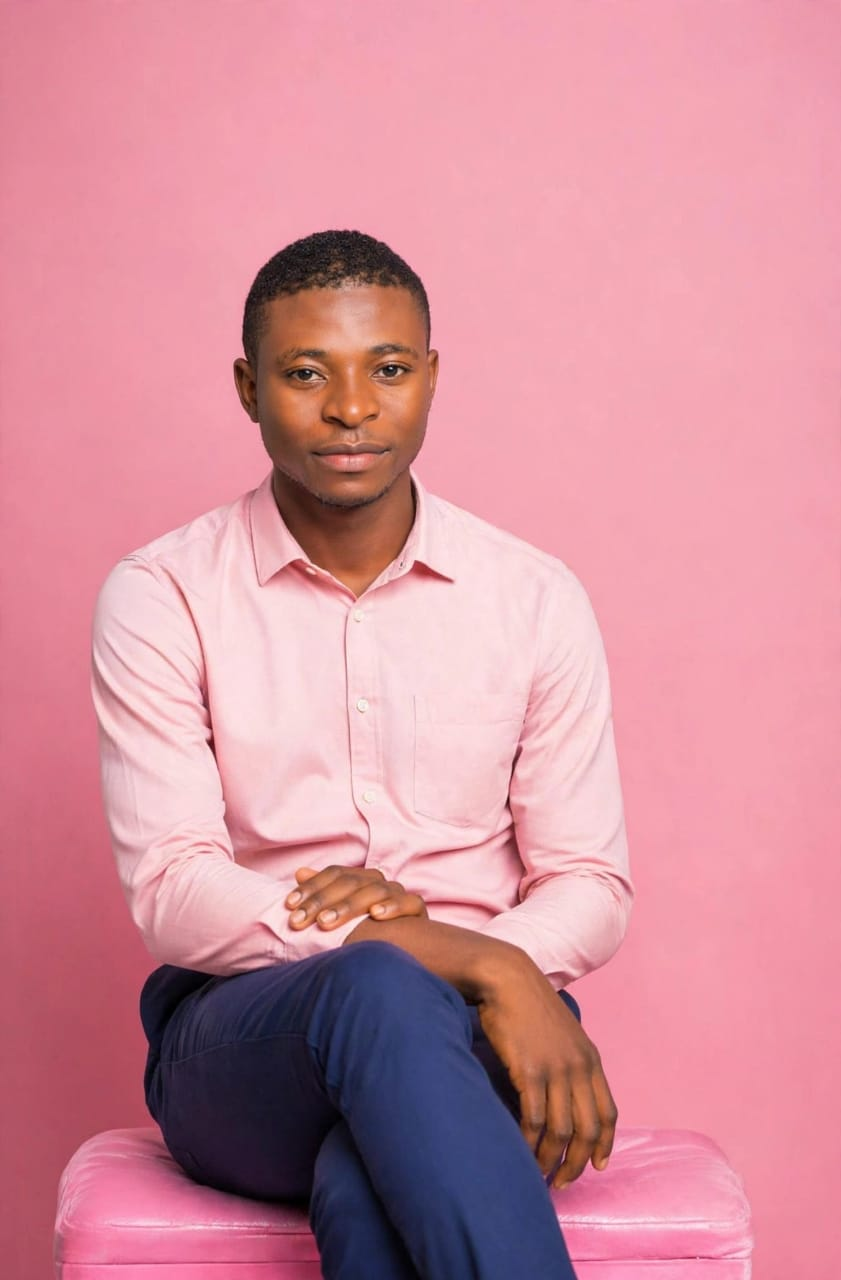
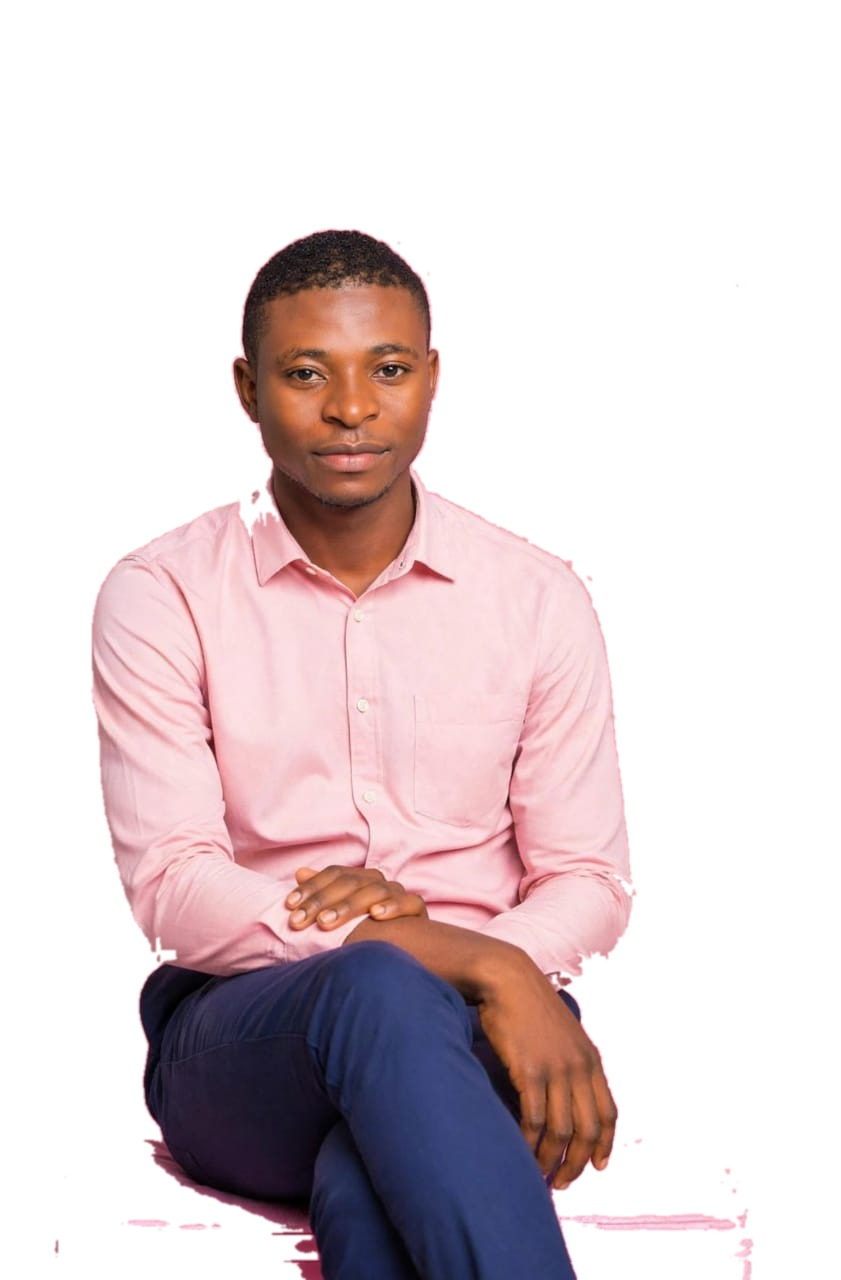
Polish header, project interactions and portrait

diff --git a/programmes.html b/programmes.html
@@ -3,8 +3,8 @@
 <body><a class="skip-link" href="#main">Skip to content</a><header class="site-header"><a class="brand" href="index.html" aria-label="Rwenzori Development Initiative home"><img src="assets/rwedi-logo.png" alt="" aria-hidden="true"><span class="brand-divider" aria-hidden="true"></span><span class="brand-name">Rwenzori Development Initiative</span></a><button class="menu-toggle" type="button" aria-expanded="false" aria-controls="primary-navigation"><span class="menu-icon" aria-hidden="true">☰</span><span>Menu</span></button><nav class="site-nav" id="primary-navigation" aria-label="Main navigation"><a href="index.html">Home</a><a href="about.html">About</a><a href="programmes.html" aria-current="page">Programmes</a><a href="projects.html">Projects</a><a href="contact.html">Contact</a><a class="nav-cta" href="contact.html#get-involved">Get involved</a></nav></header>
 <main id="main"><section class="page-hero"><div class="page-hero-inner"><p class="eyebrow">What we work on</p><h1>Our programme areas</h1><p>RweDI’s programme areas respond to the priorities of farmers, families and young people in Kasese. Activities and enrolment information will be shared when confirmed.</p></div></section>
 <section class="content-section"><div class="content-inner">
-<article class="programme-detail" id="agriculture"><div class="programme-detail-head"><img class="programme-detail-image programme-detail-image-agriculture" src="assets/programme-agriculture.jpeg" alt="Farmers planting in a field" loading="lazy"><h2>Agriculture and Food Security</h2></div><p>We aim to support smallholder farmers and livestock keepers with practical approaches to stronger, more reliable livelihoods. This programme area includes climate-smart farming, value addition and market linkages.</p><a class="enquiry-link" href="contact.html#take-part">Ask about taking part →</a></article>
-<article class="programme-detail" id="youth"><div class="programme-detail-head"><img class="programme-detail-image programme-detail-image-youth" src="assets/programme-youth.jpeg" alt="Young people participating in sewing skills training" loading="lazy"><h2>Youth Empowerment and Entrepreneurship</h2></div><p>We want young people to build confidence and create options for their future. The programme area focuses on practical skills, financial literacy, mentorship, enterprise development and livelihood opportunities.</p><a class="enquiry-link" href="contact.html#take-part">Ask about taking part →</a></article>
-<article class="programme-detail" id="education"><div class="programme-detail-head"><img class="programme-detail-image programme-detail-image-education" src="assets/programme-education.jpeg" alt="Children learning in a classroom" loading="lazy"><h2>Education and Human Development</h2></div><p>We support learning and personal development through learning support, school attendance awareness, vocational skills, mentorship, leadership and community capacity development.</p><a class="enquiry-link" href="contact.html#take-part">Ask about taking part →</a></article>
-<article class="programme-detail" id="environment"><div class="programme-detail-head"><img class="programme-detail-image programme-detail-image-environment" src="assets/programme-environment.jpeg" alt="Community members working together in a planted field" loading="lazy"><h2>Environment and Community Resilience</h2></div><p>We encourage conservation, tree planting and sustainable management of natural resources, while helping communities adapt to climate risks and protect the foundations of local livelihoods.</p><a class="enquiry-link" href="contact.html#partner">Discuss working together →</a></article>
+<article class="programme-detail" id="agriculture"><div class="programme-detail-head"><img class="programme-detail-image programme-detail-image-agriculture" src="assets/programme-agriculture.jpeg" alt="Farmers planting in a field" loading="lazy"><h2>Agriculture and Food Security</h2></div><p>We aim to support smallholder farmers and livestock keepers with practical approaches to stronger, more reliable livelihoods. This programme area includes climate-smart farming, value addition and market linkages.</p><a class="enquiry-link" href="contact.html#take-part">Ask about taking part</a></article>
+<article class="programme-detail" id="youth"><div class="programme-detail-head"><img class="programme-detail-image programme-detail-image-youth" src="assets/programme-youth.jpeg" alt="Young people participating in sewing skills training" loading="lazy"><h2>Youth Empowerment and Entrepreneurship</h2></div><p>We want young people to build confidence and create options for their future. The programme area focuses on practical skills, financial literacy, mentorship, enterprise development and livelihood opportunities.</p><a class="enquiry-link" href="contact.html#take-part">Ask about taking part</a></article>
+<article class="programme-detail" id="education"><div class="programme-detail-head"><img class="programme-detail-image programme-detail-image-education" src="assets/programme-education.jpeg" alt="Children learning in a classroom" loading="lazy"><h2>Education and Human Development</h2></div><p>We support learning and personal development through learning support, school attendance awareness, vocational skills, mentorship, leadership and community capacity development.</p><a class="enquiry-link" href="contact.html#take-part">Ask about taking part</a></article>
+<article class="programme-detail" id="environment"><div class="programme-detail-head"><img class="programme-detail-image programme-detail-image-environment" src="assets/programme-environment.jpeg" alt="Community members working together in a planted field" loading="lazy"><h2>Environment and Community Resilience</h2></div><p>We encourage conservation, tree planting and sustainable management of natural resources, while helping communities adapt to climate risks and protect the foundations of local livelihoods.</p><a class="enquiry-link" href="contact.html#partner">Discuss working together</a></article>
 </div></section></main><footer class="site-footer"><div class="footer-inner"><div class="footer-org"><p class="footer-name">Rwenzori Development Initiative (RweDI)</p><p class="footer-location">Kasese District, Uganda</p><p class="footer-location">Proposed headquarters: Kasese Municipality</p><div class="footer-contact"><a href="mailto:enosmin111@gmail.com" aria-label="Email RweDI at enosmin111@gmail.com"><svg class="contact-icon" viewBox="0 0 24 24" aria-hidden="true"><path d="M3 6h18v12H3zM3 7l9 7 9-7"/></svg>enosmin111@gmail.com</a><a href="tel:+256789033226" aria-label="Call RweDI at 0789 033 226"><svg class="contact-icon" viewBox="0 0 24 24" aria-hidden="true"><path d="M7 3.5h2.2l1.3 4.1-1.7 1.4a14 14 0 0 0 6.2 6.2l1.4-1.7 4.1 1.3V17a2 2 0 0 1-2.2 2A16.5 16.5 0 0 1 5 7a2 2 0 0 1 2-2.2Z"/></svg>0789 033 226</a></div></div><div class="footer-hours" aria-label="Working hours"><h2 class="footer-hours-title">Working hours</h2><p><strong>Monday – Friday:</strong> 8:00am – 5:00pm</p><p><strong>Saturday – Sunday:</strong> Closed</p></div><nav class="footer-nav" aria-label="Footer navigation"><a href="index.html">Home</a><a href="about.html">About</a><a href="programmes.html">Programmes</a><a href="projects.html">Projects</a><a href="contact.html">Contact</a></nav><div class="social-links" aria-label="Contact and social links"><a href="https://www.linkedin.com/search/results/companies/?keywords=Rwenzori%20Development%20Initiative" target="_blank" rel="noopener noreferrer" aria-label="Find RweDI on LinkedIn" title="LinkedIn search for RweDI"><svg viewBox="0 0 24 24" aria-hidden="true"><path d="M5.2 3.5a2.2 2.2 0 1 1 0 4.4 2.2 2.2 0 0 1 0-4.4ZM3.3 9.5h3.8v11H3.3Zm6.1 0H13v1.5h.1a4 4 0 0 1 3.6-1.9c3.9 0 4.6 2.5 4.6 5.7v5.7h-3.8v-5c0-1.2 0-2.8-1.8-2.8s-2.1 1.3-2.1 2.7v5.1H9.4Z"/></svg></a><a href="https://wa.me/256789033226" target="_blank" rel="noopener noreferrer" aria-label="Message RweDI on WhatsApp" title="WhatsApp"><svg viewBox="0 0 24 24" aria-hidden="true"><path d="M12 2.2a9.7 9.7 0 0 0-8.3 14.7L2.4 22l5.2-1.4A9.8 9.8 0 1 0 12 2.2Zm0 17.6a7.8 7.8 0 0 1-4-.1l-.5-.2-3.1.8.8-3-.3-.5A7.8 7.8 0 1 1 12 19.8Zm4.3-5.8c-.2-.1-1.4-.7-1.6-.8-.2-.1-.4-.1-.5.1-.2.2-.6.8-.8 1-.1.2-.3.2-.5.1-.2-.1-1-.4-1.9-1.2-.7-.6-1.2-1.4-1.3-1.6-.1-.2 0-.3.1-.5l.4-.4.2-.4c.1-.2 0-.3 0-.5l-.7-1.7c-.2-.4-.4-.4-.5-.4h-.5c-.2 0-.4.1-.6.3s-.8.8-.8 1.9.8 2.1.9 2.3c.1.2 1.6 2.4 3.8 3.3 1.4.6 1.9.6 2.6.5.4-.1 1.4-.6 1.6-1.1.2-.5.2-1 .1-1.1 0-.1-.2-.2-.4-.3Z"/></svg></a><a href="mailto:enosmin111@gmail.com" aria-label="Email RweDI at enosmin111@gmail.com" title="Email RweDI"><svg viewBox="0 0 24 24" aria-hidden="true"><path d="M3 5h18a2 2 0 0 1 2 2v10a2 2 0 0 1-2 2H3a2 2 0 0 1-2-2V7a2 2 0 0 1 2-2Zm9 7.2L20.5 7h-17Zm-9 5.3h18V9l-9 6.2L3 9Z"/></svg></a></div></div><p class="footer-small">Working alongside local communities for resilient livelihoods and opportunity. Contact RweDI at enosmin111@gmail.com.</p></footer></body></html>

diff --git a/contact.html b/contact.html
@@ -2,8 +2,8 @@
 <html lang="en"><head><meta charset="utf-8"><meta name="viewport" content="width=device-width, initial-scale=1"><title>Contact and Get Involved | Rwenzori Development Initiative</title><meta name="description" content="Take part, volunteer or discuss a partnership with Rwenzori Development Initiative in Kasese District, Uganda."><link rel="icon" href="assets/rwedi-logo.png" type="image/png"><link rel="stylesheet" href="styles.css"><script src="script.js" defer></script></head>
 <body><a class="skip-link" href="#main">Skip to content</a><header class="site-header"><a class="brand" href="index.html" aria-label="Rwenzori Development Initiative home"><img src="assets/rwedi-logo.png" alt="" aria-hidden="true"><span class="brand-divider" aria-hidden="true"></span><span class="brand-name">Rwenzori Development Initiative</span></a><button class="menu-toggle" type="button" aria-expanded="false" aria-controls="primary-navigation"><span class="menu-icon" aria-hidden="true">☰</span><span>Menu</span></button><nav class="site-nav" id="primary-navigation" aria-label="Main navigation"><a href="index.html">Home</a><a href="about.html">About</a><a href="programmes.html">Programmes</a><a href="projects.html">Projects</a><a href="contact.html" aria-current="page">Contact</a><a class="nav-cta" href="contact.html#get-involved">Get involved</a></nav></header>
 <main id="main"><section class="page-hero"><div class="page-hero-inner"><p class="eyebrow">Start a conversation</p><h1 id="get-involved">Get involved with RweDI</h1><p>Whether you live in Kasese, have skills to share or represent an organisation, we welcome conversations about working together.</p></div></section><section class="content-section"><div class="content-inner"><h2 class="section-heading">Choose how you’d like to connect</h2><div class="contact-options">
-<article class="contact-card" id="take-part"><span class="number">01</span><h2>Take part</h2><p>For farmers, families and young people interested in activities and opportunities in their community.</p><a href="#contact-details">Ask about taking part →</a></article>
-<article class="contact-card" id="volunteer"><span class="number">02</span><h2>Volunteer</h2><p>For people who can support training, community outreach or field activities with their time and skills.</p><a href="#contact-details">Ask about volunteering →</a></article>
-<article class="contact-card" id="partner"><span class="number">03</span><h2>Partner with RweDI</h2><p>For schools, agricultural advisers, community organisations and funders interested in discussing a partnership.</p><a href="#contact-details">Discuss a partnership →</a></article>
+<article class="contact-card" id="take-part"><span class="number">01</span><h2>Take part</h2><p>For farmers, families and young people interested in activities and opportunities in their community.</p><a href="#contact-details">Ask about taking part</a></article>
+<article class="contact-card" id="volunteer"><span class="number">02</span><h2>Volunteer</h2><p>For people who can support training, community outreach or field activities with their time and skills.</p><a href="#contact-details">Ask about volunteering</a></article>
+<article class="contact-card" id="partner"><span class="number">03</span><h2>Partner with RweDI</h2><p>For schools, agricultural advisers, community organisations and funders interested in discussing a partnership.</p><a href="#contact-details">Discuss a partnership</a></article>
 </div><div class="contact-details" id="contact-details"><h2>Contact RweDI</h2><p>For enquiries, contact Enos Kabale at <a href="tel:+256789033226">0789 033 226</a> or message on <a href="https://wa.me/256789033226">WhatsApp</a>. RweDI’s proposed headquarters is in Kasese Municipality, Kasese District, Uganda. Email RweDI at <a href="mailto:enosmin111@gmail.com">enosmin111@gmail.com</a>.</p></div><article class="feedback-panel"><h2>Share your feedback</h2><p>Tell us what you think about the website or what information would be useful to your community. This link opens an email draft to the RweDI public inbox.</p><a class="button button-green" href="mailto:enosmin111@gmail.com?subject=Feedback%20for%20Rwenzori%20Development%20Initiative">Send feedback by email</a></article></div></section></main>
 <footer class="site-footer"><div class="footer-inner"><div class="footer-org"><p class="footer-name">Rwenzori Development Initiative (RweDI)</p><p class="footer-location">Kasese District, Uganda</p><p class="footer-location">Proposed headquarters: Kasese Municipality</p><div class="footer-contact"><a href="mailto:enosmin111@gmail.com" aria-label="Email RweDI at enosmin111@gmail.com"><svg class="contact-icon" viewBox="0 0 24 24" aria-hidden="true"><path d="M3 6h18v12H3zM3 7l9 7 9-7"/></svg>enosmin111@gmail.com</a><a href="tel:+256789033226" aria-label="Call RweDI at 0789 033 226"><svg class="contact-icon" viewBox="0 0 24 24" aria-hidden="true"><path d="M7 3.5h2.2l1.3 4.1-1.7 1.4a14 14 0 0 0 6.2 6.2l1.4-1.7 4.1 1.3V17a2 2 0 0 1-2.2 2A16.5 16.5 0 0 1 5 7a2 2 0 0 1 2-2.2Z"/></svg>0789 033 226</a></div></div><div class="footer-hours" aria-label="Working hours"><h2 class="footer-hours-title">Working hours</h2><p><strong>Monday – Friday:</strong> 8:00am – 5:00pm</p><p><strong>Saturday – Sunday:</strong> Closed</p></div><nav class="footer-nav" aria-label="Footer navigation"><a href="index.html">Home</a><a href="about.html">About</a><a href="programmes.html">Programmes</a><a href="projects.html">Projects</a><a href="contact.html">Contact</a></nav><div class="social-links" aria-label="Contact and social links"><a href="https://www.linkedin.com/search/results/companies/?keywords=Rwenzori%20Development%20Initiative" target="_blank" rel="noopener noreferrer" aria-label="Find RweDI on LinkedIn" title="LinkedIn search for RweDI"><svg viewBox="0 0 24 24" aria-hidden="true"><path d="M5.2 3.5a2.2 2.2 0 1 1 0 4.4 2.2 2.2 0 0 1 0-4.4ZM3.3 9.5h3.8v11H3.3Zm6.1 0H13v1.5h.1a4 4 0 0 1 3.6-1.9c3.9 0 4.6 2.5 4.6 5.7v5.7h-3.8v-5c0-1.2 0-2.8-1.8-2.8s-2.1 1.3-2.1 2.7v5.1H9.4Z"/></svg></a><a href="https://wa.me/256789033226" target="_blank" rel="noopener noreferrer" aria-label="Message RweDI on WhatsApp" title="WhatsApp"><svg viewBox="0 0 24 24" aria-hidden="true"><path d="M12 2.2a9.7 9.7 0 0 0-8.3 14.7L2.4 22l5.2-1.4A9.8 9.8 0 1 0 12 2.2Zm0 17.6a7.8 7.8 0 0 1-4-.1l-.5-.2-3.1.8.8-3-.3-.5A7.8 7.8 0 1 1 12 19.8Zm4.3-5.8c-.2-.1-1.4-.7-1.6-.8-.2-.1-.4-.1-.5.1-.2.2-.6.8-.8 1-.1.2-.3.2-.5.1-.2-.1-1-.4-1.9-1.2-.7-.6-1.2-1.4-1.3-1.6-.1-.2 0-.3.1-.5l.4-.4.2-.4c.1-.2 0-.3 0-.5l-.7-1.7c-.2-.4-.4-.4-.5-.4h-.5c-.2 0-.4.1-.6.3s-.8.8-.8 1.9.8 2.1.9 2.3c.1.2 1.6 2.4 3.8 3.3 1.4.6 1.9.6 2.6.5.4-.1 1.4-.6 1.6-1.1.2-.5.2-1 .1-1.1 0-.1-.2-.2-.4-.3Z"/></svg></a><a href="mailto:enosmin111@gmail.com" aria-label="Email RweDI at enosmin111@gmail.com" title="Email RweDI"><svg viewBox="0 0 24 24" aria-hidden="true"><path d="M3 5h18a2 2 0 0 1 2 2v10a2 2 0 0 1-2 2H3a2 2 0 0 1-2-2V7a2 2 0 0 1 2-2Zm9 7.2L20.5 7h-17Zm-9 5.3h18V9l-9 6.2L3 9Z"/></svg></a></div></div><p class="footer-small">Working alongside local communities for resilient livelihoods and opportunity. Contact RweDI at enosmin111@gmail.com.</p></footer></body></html>

diff --git a/styles.css b/styles.css
@@ -18,6 +18,11 @@
 .founder-portrait{height:320px}.founder-card-masereka .founder-portrait img{object-position:center 15%}.founder-card-copy{position:relative;z-index:1;min-height:104px;background:var(--cream);display:flex;flex-direction:column;justify-content:center;padding:16px}.founder-card h3{margin:0 0 7px}.footer-contact span,.footer-small{display:none}.feedback-panel{max-width:1120px;margin:24px auto 0;padding:26px;border:1px solid var(--line);border-left:5px solid var(--gold);border-radius:12px;background:#fff;box-shadow:var(--shadow)}.feedback-panel h2{font:700 27px/1.2 var(--serif);color:var(--green);margin:0 0 8px}.feedback-panel p{max-width:750px;color:var(--muted);margin:0 0 18px}
 @media(max-width:900px){.founder-portrait{height:320px}.feedback-panel{margin-top:20px;padding:21px}}
 html,body,button,input,select,textarea{font-family:Arial,Helvetica,sans-serif}input,select,textarea,button{font-family:inherit}.site-nav .nav-cta{white-space:nowrap}
+.site-header{gap:clamp(14px,1.6vw,24px)}.brand{flex:0 1 520px;min-width:0}.brand-name{white-space:normal;max-width:clamp(190px,22vw,320px);line-height:1.12}.site-nav{flex:0 0 auto;gap:clamp(12px,1.8vw,24px)}
+.project-facts span,.page-hero .eyebrow{transition:transform .18s ease,background-color .18s ease,border-color .18s ease,box-shadow .18s ease}.project-facts span:hover{transform:translateY(-3px);background:#fff5dc;border-color:var(--gold);box-shadow:var(--shadow)}.page-hero .eyebrow{display:inline-block;padding:5px 12px;border:1px solid transparent;border-radius:999px}.page-hero .eyebrow:hover{transform:translateY(-2px);background:rgba(255,255,255,.1);border-color:rgba(243,196,94,.7)}
+@media(max-width:900px){.site-header{padding-right:100px}.brand{flex:0 1 auto;margin-right:0}.brand-name{max-width:185px}.menu-toggle{display:inline-flex;position:absolute;right:14px;top:50%;flex:0 0 auto;transform:translateY(-50%)}}
+@media(max-width:390px){.brand-name{max-width:150px}}
+.founder-card-masereka .founder-portrait{background:#fff}
 
 .hero{min-height:clamp(410px,50vh,500px)}
 .hero-copy{padding:clamp(34px,4vw,56px) clamp(28px,4vw,64px)}

diff --git a/index.html b/index.html
@@ -38,7 +38,7 @@
       <a class="programme-card" href="programmes.html#education"><img class="programme-image programme-image-education" src="assets/programme-education.jpeg" alt="" aria-hidden="true" loading="lazy"><h3>Education and Human Development</h3></a>
       <a class="programme-card" href="programmes.html#environment"><img class="programme-image programme-image-environment" src="assets/programme-environment.jpeg" alt="" aria-hidden="true" loading="lazy"><h3>Environment and Community Resilience</h3></a>
     </div>
-    <article class="feature-project"><div class="feature-project-image"><img src="assets/kithoma-youth-led-climate-smart-farming.jpeg" alt="Community members examining a young seedling outdoors" loading="lazy"></div><div class="feature-project-copy"><h3>Kithoma Youth-Led Climate-Smart Farming Pilot</h3><span class="status-label">Proposed project</span><a href="projects.html">Learn about the proposed pilot →</a></div></article>
+    <article class="feature-project"><div class="feature-project-image"><img src="assets/kithoma-youth-led-climate-smart-farming.jpeg" alt="Community members examining a young seedling outdoors" loading="lazy"></div><div class="feature-project-copy"><h3>Kithoma Youth-Led Climate-Smart Farming Pilot</h3><span class="status-label">Proposed project</span><a href="projects.html">Learn about the proposed pilot</a></div></article>
   </div></section>
   <section class="section founders-preview"><div class="section-inner"><div class="founder-strip"><div><h2 class="section-heading">Rooted in community</h2><p>Meet the founding members working to build a practical, community-led organisation in Kasese.</p><div class="founder-names"><span>Enos Kabale</span><span>Bwambale John</span><span>Masereka Benet</span></div></div><a class="button button-green" href="about.html#founders">Meet our founders</a></div></div></section>
 </main>
